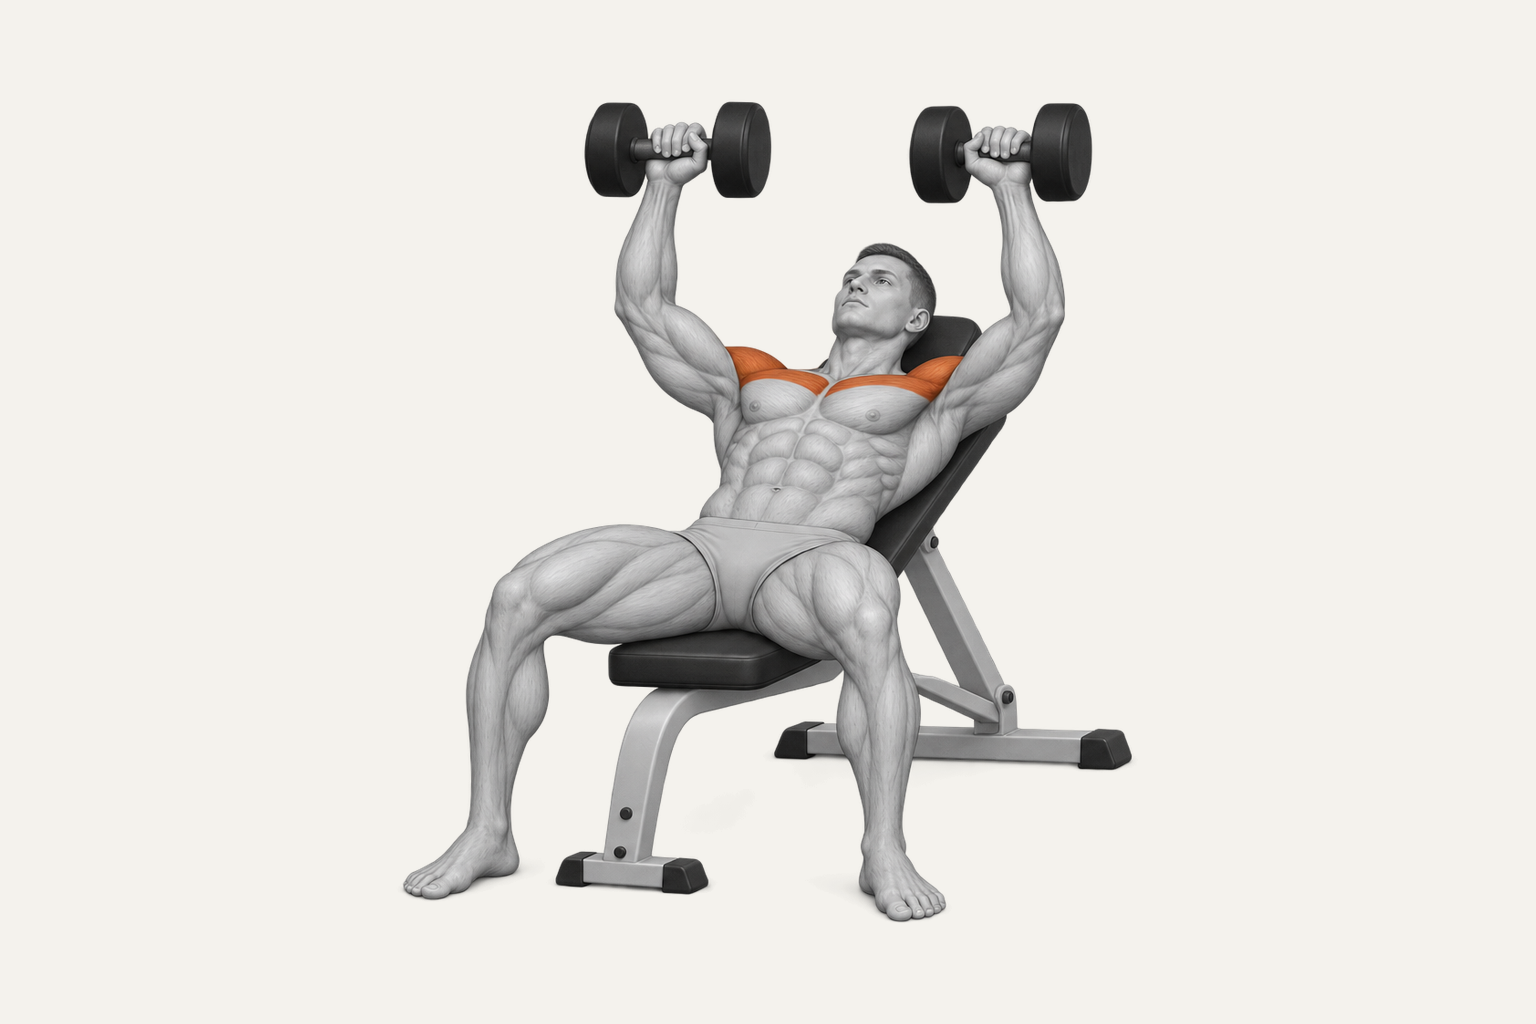
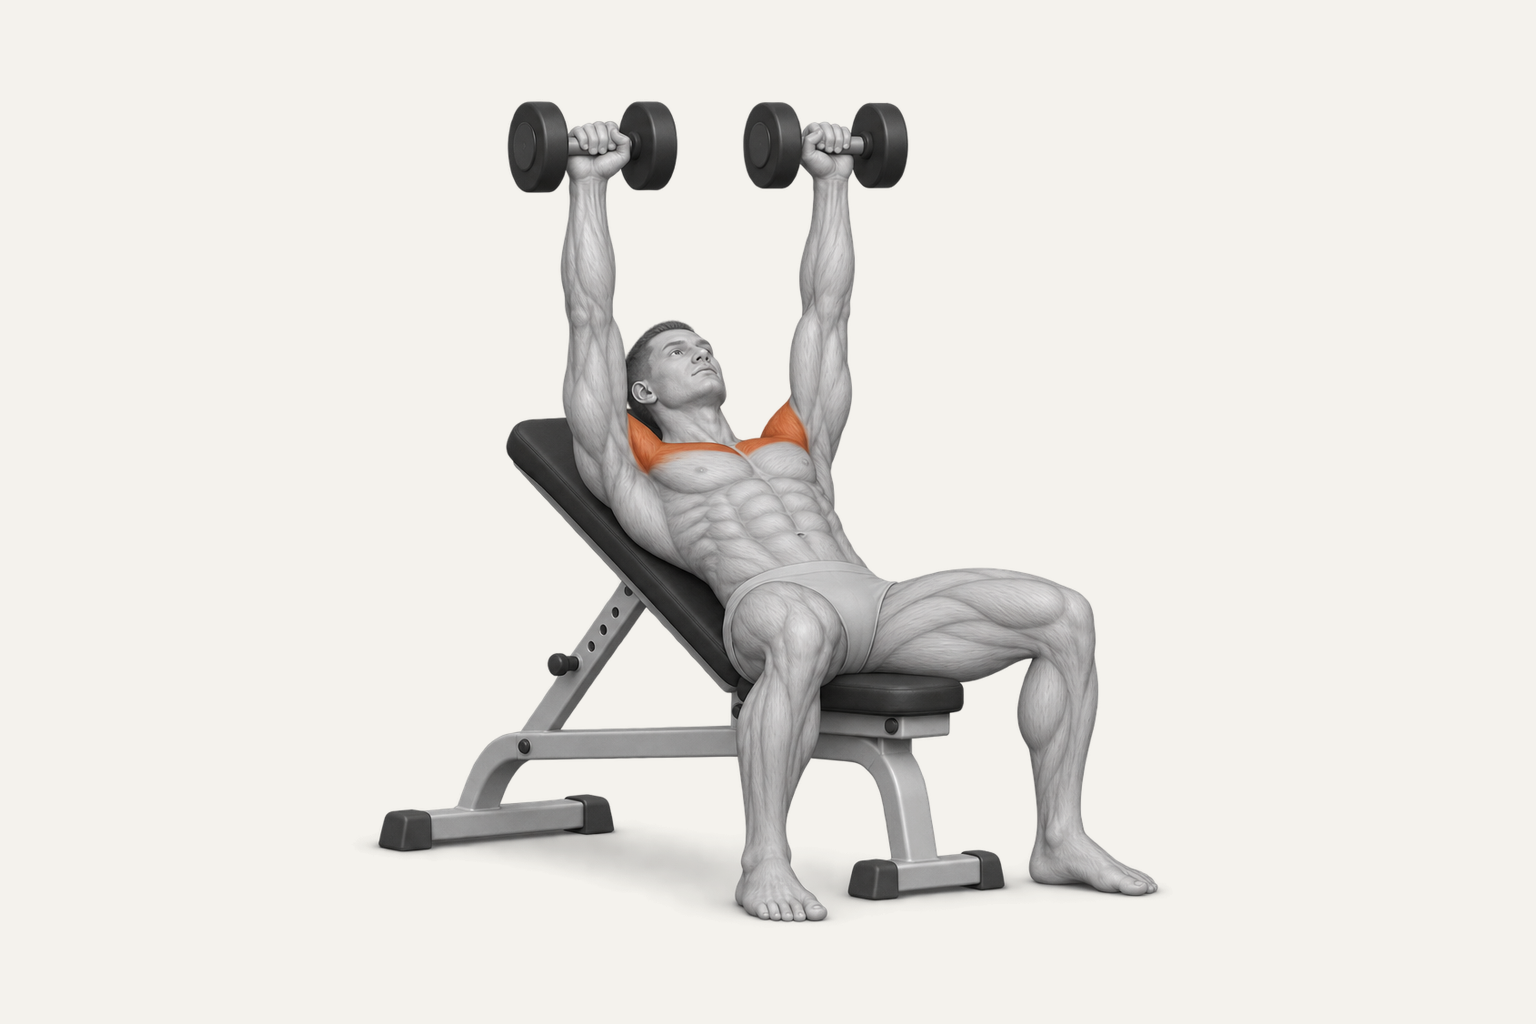
WhatsApp do JP nas orientações e no resumo

Changed region(s): [[0.25, 0.0938, 0.75, 0.9062]]

diff --git a/treino.md b/treino.md
@@ -9,7 +9,7 @@ Se o app não conseguir ler, ele mostra a linha com problema em vez de abrir pel
 
 # Treino do Bernardo
 
-WhatsApp do JP:
+WhatsApp do JP: 5521981329490
 Início: segunda, 16/11/2026. Troca de bloco prevista para meados de janeiro (~8 semanas).
 
 ## Orientações gerais
